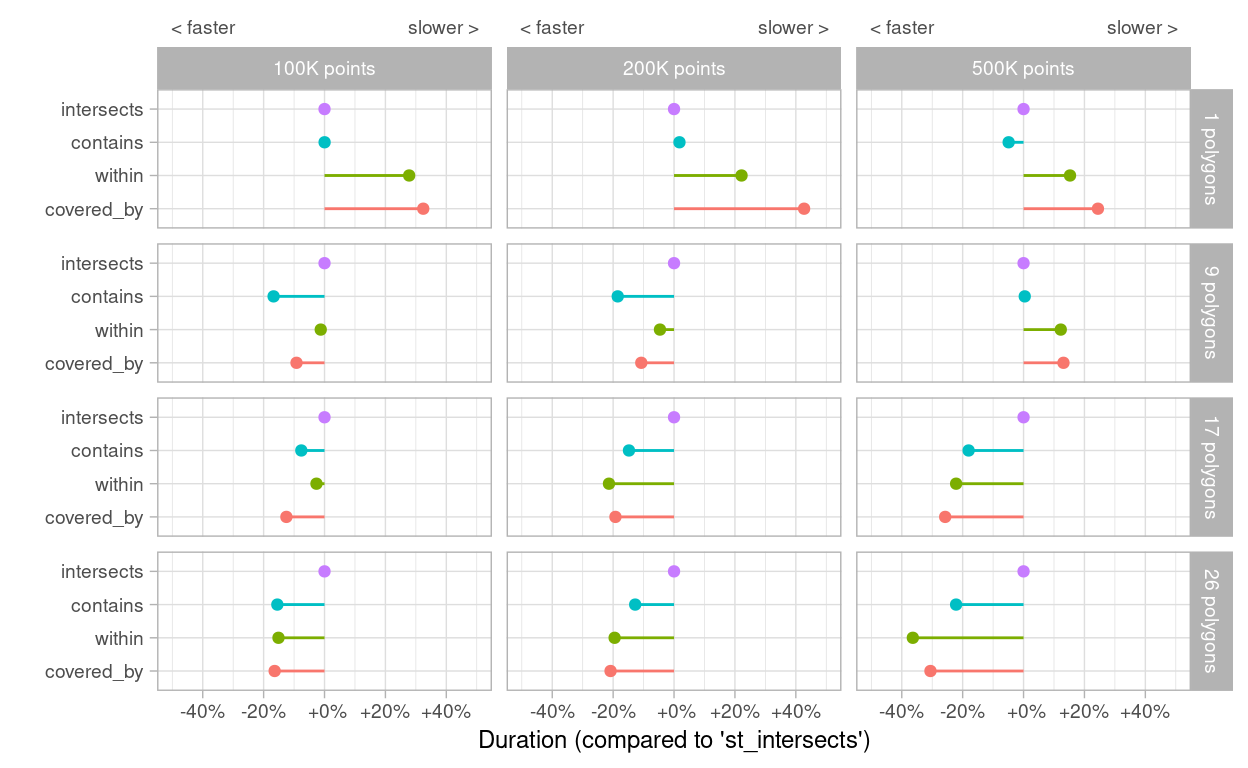
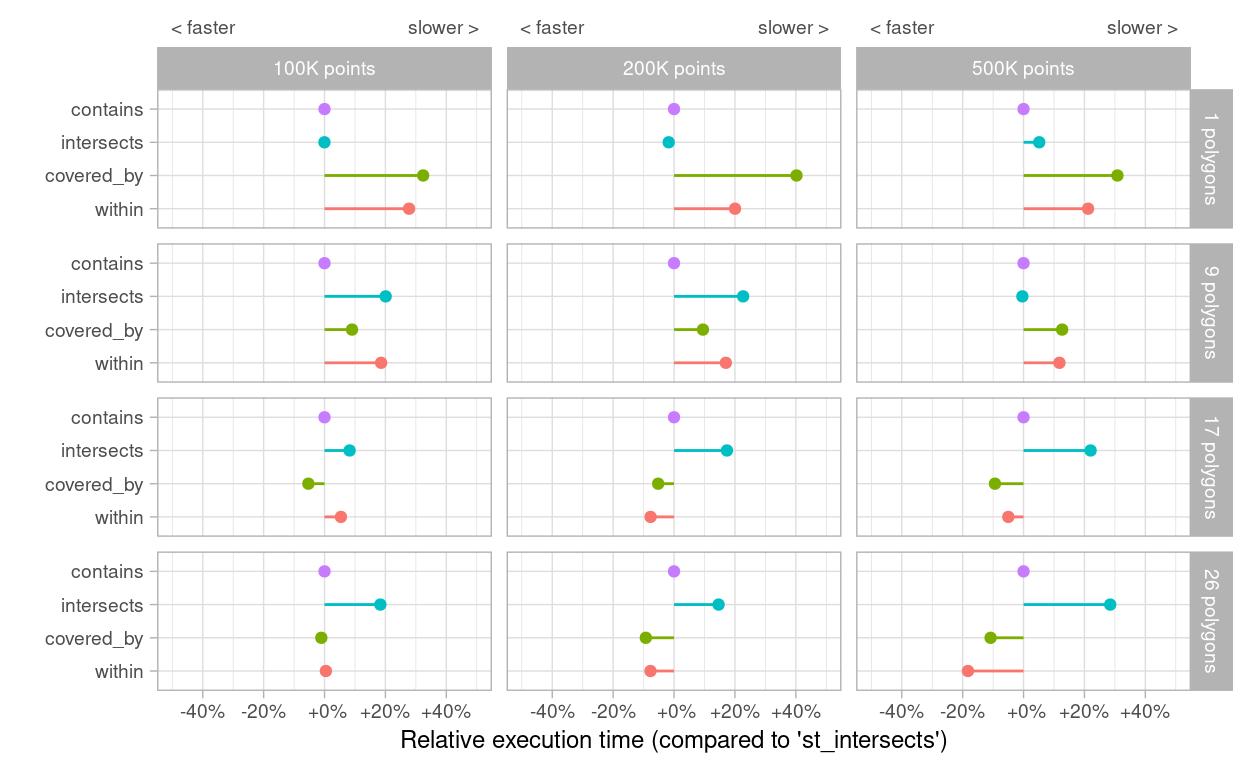
updates

diff --git a/docs/posts/2021-09-11-benchmarking_binary_predicates/index.html b/docs/posts/2021-09-11-benchmarking_binary_predicates/index.html
@@ -94,8 +94,8 @@ code span.wa { color: #5e5e5e; font-style: italic; } /* Warning */
 <link rel="canonical" href="https://nils.ratnaweera.net/posts/2021-09-11-benchmarking_binary_predicates/"/>
 
 <!--  https://schema.org/Article -->
-<meta property="article:published" itemprop="datePublished" content="2021-09-16"/>
-<meta property="article:created" itemprop="dateCreated" content="2021-09-16"/>
+<meta property="article:published" itemprop="datePublished" content="2021-09-17"/>
+<meta property="article:created" itemprop="dateCreated" content="2021-09-17"/>
 <meta name="article:author" content="Nils Ratnaweera"/>
 
 <!--  https://developers.facebook.com/docs/sharing/webmasters#markup -->
@@ -118,19 +118,19 @@ code span.wa { color: #5e5e5e; font-style: italic; } /* Warning */
 <!--  https://scholar.google.com/intl/en/scholar/inclusion.html#indexing -->
 <meta name="citation_title" content="To talk of many things: Benchmarking binary predicates"/>
 <meta name="citation_fulltext_html_url" content="https://nils.ratnaweera.net/posts/2021-09-11-benchmarking_binary_predicates/"/>
-<meta name="citation_online_date" content="2021/09/16"/>
-<meta name="citation_publication_date" content="2021/09/16"/>
+<meta name="citation_online_date" content="2021/09/17"/>
+<meta name="citation_publication_date" content="2021/09/17"/>
 <meta name="citation_author" content="Nils Ratnaweera"/>
 <!--/radix_placeholder_meta_tags-->
   <!--radix_placeholder_rmarkdown_metadata-->
 
 <script type="text/json" id="radix-rmarkdown-metadata">
-{"type":"list","attributes":{"names":{"type":"character","attributes":{},"value":["title","author","description","categories","tags","preview","twitter","output","date","citation_url","canonical_url"]}},"value":[{"type":"character","attributes":{},"value":["Benchmarking binary predicates"]},{"type":"list","attributes":{},"value":[{"type":"list","attributes":{"names":{"type":"character","attributes":{},"value":["name"]}},"value":[{"type":"character","attributes":{},"value":["Nils Ratnaweera"]}]}]},{"type":"character","attributes":{},"value":["Comparing the performance of different methods to do a \"point in polygon operation\" with sf."]},{"type":"character","attributes":{},"value":["R","geodata"]},{"type":"character","attributes":{},"value":["R","point-in-polygon","sf","swisstopo","Sri Lanka"]},{"type":"character","attributes":{},"value":["preview.jpg"]},{"type":"list","attributes":{"names":{"type":"character","attributes":{},"value":["site","author"]}},"value":[{"type":"character","attributes":{},"value":["@NRatnaweera"]},{"type":"character","attributes":{},"value":["@NRatnaweera"]}]},{"type":"list","attributes":{"names":{"type":"character","attributes":{},"value":["distill::distill_article"]}},"value":[{"type":"list","attributes":{"names":{"type":"character","attributes":{},"value":["self_contained","toc"]}},"value":[{"type":"logical","attributes":{},"value":[false]},{"type":"logical","attributes":{},"value":[true]}]}]},{"type":"character","attributes":{},"value":["09-16-2021"]},{"type":"character","attributes":{},"value":["https://nils.ratnaweera.net/posts/2021-09-11-benchmarking_binary_predicates/"]},{"type":"character","attributes":{},"value":["https://nils.ratnaweera.net/posts/2021-09-11-benchmarking_binary_predicates/"]}]}
+{"type":"list","attributes":{"names":{"type":"character","attributes":{},"value":["title","author","description","categories","tags","preview","twitter","output","date","citation_url","canonical_url"]}},"value":[{"type":"character","attributes":{},"value":["Benchmarking binary predicates"]},{"type":"list","attributes":{},"value":[{"type":"list","attributes":{"names":{"type":"character","attributes":{},"value":["name"]}},"value":[{"type":"character","attributes":{},"value":["Nils Ratnaweera"]}]}]},{"type":"character","attributes":{},"value":["Comparing the performance of different methods to do a \"point in polygon operation\" with sf."]},{"type":"character","attributes":{},"value":["R","geodata"]},{"type":"character","attributes":{},"value":["R","point-in-polygon","sf","swisstopo","Sri Lanka"]},{"type":"character","attributes":{},"value":["preview.jpg"]},{"type":"list","attributes":{"names":{"type":"character","attributes":{},"value":["site","author"]}},"value":[{"type":"character","attributes":{},"value":["@NRatnaweera"]},{"type":"character","attributes":{},"value":["@NRatnaweera"]}]},{"type":"list","attributes":{"names":{"type":"character","attributes":{},"value":["distill::distill_article"]}},"value":[{"type":"list","attributes":{"names":{"type":"character","attributes":{},"value":["self_contained","toc"]}},"value":[{"type":"logical","attributes":{},"value":[false]},{"type":"logical","attributes":{},"value":[true]}]}]},{"type":"character","attributes":{},"value":["09-17-2021"]},{"type":"character","attributes":{},"value":["https://nils.ratnaweera.net/posts/2021-09-11-benchmarking_binary_predicates/"]},{"type":"character","attributes":{},"value":["https://nils.ratnaweera.net/posts/2021-09-11-benchmarking_binary_predicates/"]}]}
 </script>
 <!--/radix_placeholder_rmarkdown_metadata-->
   
   <script type="text/json" id="radix-resource-manifest">
-  {"type":"character","attributes":{},"value":["benchmarking_binary_predicates_files/anchor-4.2.2/anchor.min.js","benchmarking_binary_predicates_files/bowser-1.9.3/bowser.min.js","benchmarking_binary_predicates_files/distill-2.2.21/template.v2.js","benchmarking_binary_predicates_files/figure-html/unnamed-chunk-1-1.png","benchmarking_binary_predicates_files/figure-html/unnamed-chunk-2-1.png","benchmarking_binary_predicates_files/figure-html/unnamed-chunk-3-1.png","benchmarking_binary_predicates_files/figure-html/unnamed-chunk-4-1.png","benchmarking_binary_predicates_files/figure-html/unnamed-chunk-5-1.png","benchmarking_binary_predicates_files/figure-html/unnamed-chunk-7-1.png","benchmarking_binary_predicates_files/figure-html5/unnamed-chunk-11-1.png","benchmarking_binary_predicates_files/figure-html5/unnamed-chunk-12-1.png","benchmarking_binary_predicates_files/figure-html5/unnamed-chunk-4-1.png","benchmarking_binary_predicates_files/figure-html5/unnamed-chunk-5-1.png","benchmarking_binary_predicates_files/figure-html5/unnamed-chunk-6-1.png","benchmarking_binary_predicates_files/figure-html5/unnamed-chunk-7-1.png","benchmarking_binary_predicates_files/figure-html5/unnamed-chunk-8-1.png","benchmarking_binary_predicates_files/figure-html5/unnamed-chunk-9-1.png","benchmarking_binary_predicates_files/header-attrs-2.10/header-attrs.js","benchmarking_binary_predicates_files/header-attrs-2.11/header-attrs.js","benchmarking_binary_predicates_files/jquery-1.11.3/jquery.min.js","benchmarking_binary_predicates_files/jquery-3.6.0/jquery-3.6.0.js","benchmarking_binary_predicates_files/jquery-3.6.0/jquery-3.6.0.min.js","benchmarking_binary_predicates_files/jquery-3.6.0/jquery-3.6.0.min.map","benchmarking_binary_predicates_files/popper-2.6.0/popper.min.js","benchmarking_binary_predicates_files/tippy-6.2.7/tippy-bundle.umd.min.js","benchmarking_binary_predicates_files/tippy-6.2.7/tippy-light-border.css","benchmarking_binary_predicates_files/tippy-6.2.7/tippy.css","benchmarking_binary_predicates_files/tippy-6.2.7/tippy.umd.min.js","benchmarking_binary_predicates_files/webcomponents-2.0.0/webcomponents.js","data-git-lfs/LK.zip","data-git-lfs/lka_adm_slsd_20200305_shp.zip","mbm2.Rda","preview.jpg"]}
+  {"type":"character","attributes":{},"value":["benchmarking_binary_predicates_files/anchor-4.2.2/anchor.min.js","benchmarking_binary_predicates_files/bowser-1.9.3/bowser.min.js","benchmarking_binary_predicates_files/distill-2.2.21/template.v2.js","benchmarking_binary_predicates_files/figure-html/unnamed-chunk-1-1.png","benchmarking_binary_predicates_files/figure-html/unnamed-chunk-2-1.png","benchmarking_binary_predicates_files/figure-html/unnamed-chunk-3-1.png","benchmarking_binary_predicates_files/figure-html/unnamed-chunk-4-1.png","benchmarking_binary_predicates_files/figure-html/unnamed-chunk-5-1.png","benchmarking_binary_predicates_files/figure-html/unnamed-chunk-7-1.png","benchmarking_binary_predicates_files/figure-html5/unnamed-chunk-10-1.png","benchmarking_binary_predicates_files/figure-html5/unnamed-chunk-11-1.png","benchmarking_binary_predicates_files/figure-html5/unnamed-chunk-12-1.png","benchmarking_binary_predicates_files/figure-html5/unnamed-chunk-14-1.png","benchmarking_binary_predicates_files/figure-html5/unnamed-chunk-15-1.png","benchmarking_binary_predicates_files/figure-html5/unnamed-chunk-4-1.png","benchmarking_binary_predicates_files/figure-html5/unnamed-chunk-5-1.png","benchmarking_binary_predicates_files/figure-html5/unnamed-chunk-6-1.png","benchmarking_binary_predicates_files/figure-html5/unnamed-chunk-7-1.png","benchmarking_binary_predicates_files/figure-html5/unnamed-chunk-8-1.png","benchmarking_binary_predicates_files/figure-html5/unnamed-chunk-9-1.png","benchmarking_binary_predicates_files/header-attrs-2.10/header-attrs.js","benchmarking_binary_predicates_files/header-attrs-2.11/header-attrs.js","benchmarking_binary_predicates_files/jquery-1.11.3/jquery.min.js","benchmarking_binary_predicates_files/jquery-3.6.0/jquery-3.6.0.js","benchmarking_binary_predicates_files/jquery-3.6.0/jquery-3.6.0.min.js","benchmarking_binary_predicates_files/jquery-3.6.0/jquery-3.6.0.min.map","benchmarking_binary_predicates_files/popper-2.6.0/popper.min.js","benchmarking_binary_predicates_files/tippy-6.2.7/tippy-bundle.umd.min.js","benchmarking_binary_predicates_files/tippy-6.2.7/tippy-light-border.css","benchmarking_binary_predicates_files/tippy-6.2.7/tippy.css","benchmarking_binary_predicates_files/tippy-6.2.7/tippy.umd.min.js","benchmarking_binary_predicates_files/webcomponents-2.0.0/webcomponents.js","data-git-lfs/LK.zip","data-git-lfs/lka_adm_slsd_20200305_shp.zip","mbm.Rda","mbm2.Rda","preview.jpg"]}
   </script>
   <!--radix_placeholder_navigation_in_header-->
 <meta name="distill:offset" content="../.."/>
@@ -2353,7 +2353,7 @@ gtag('config', 'G-V2ZRK780J8');
 <!--radix_placeholder_front_matter-->
 
 <script id="distill-front-matter" type="text/json">
-{"title":"Benchmarking binary predicates","description":"Comparing the performance of different methods to do a \"point in polygon operation\" with sf.","authors":[{"author":"Nils Ratnaweera","authorURL":"#","affiliation":"&nbsp;","affiliationURL":"#","orcidID":""}],"publishedDate":"2021-09-16T00:00:00.000+02:00","citationText":"Ratnaweera, 2021"}
+{"title":"Benchmarking binary predicates","description":"Comparing the performance of different methods to do a \"point in polygon operation\" with sf.","authors":[{"author":"Nils Ratnaweera","authorURL":"#","affiliation":"&nbsp;","affiliationURL":"#","orcidID":""}],"publishedDate":"2021-09-17T00:00:00.000+02:00","citationText":"Ratnaweera, 2021"}
 </script>
 
 <!--/radix_placeholder_front_matter-->
@@ -2391,7 +2391,7 @@ gtag('config', 'G-V2ZRK780J8');
   
   Nils Ratnaweera
   
-<br/>09-16-2021
+<br/>09-17-2021
 </div>
 
 <div class="d-article">
@@ -2409,6 +2409,9 @@ show code for: loading libraries
 <span class='kw'><a href='https://rdrr.io/r/base/library.html'>library</a></span><span class='op'>(</span><span class='va'><a href='https://readr.tidyverse.org'>readr</a></span><span class='op'>)</span>
 <span class='kw'><a href='https://rdrr.io/r/base/library.html'>library</a></span><span class='op'>(</span><span class='va'><a href='https://ggplot2.tidyverse.org'>ggplot2</a></span><span class='op'>)</span>
 <span class='kw'><a href='https://rdrr.io/r/base/library.html'>library</a></span><span class='op'>(</span><span class='va'><a href='https://lubridate.tidyverse.org'>lubridate</a></span><span class='op'>)</span>
+<span class='kw'><a href='https://rdrr.io/r/base/library.html'>library</a></span><span class='op'>(</span><span class='va'><a href='https://github.com/joshuaulrich/microbenchmark/'>microbenchmark</a></span><span class='op'>)</span>
+<span class='kw'><a href='https://rdrr.io/r/base/library.html'>library</a></span><span class='op'>(</span><span class='va'><a href='https://wilkelab.org/ggridges/'>ggridges</a></span><span class='op'>)</span>
+<span class='kw'><a href='https://rdrr.io/r/base/library.html'>library</a></span><span class='op'>(</span><span class='va'><a href='https://forcats.tidyverse.org'>forcats</a></span><span class='op'>)</span>
 </code></pre>
 </div>
 </details>
@@ -2467,7 +2470,11 @@ show code for: preparing geonames dataset
 <span class='co'># modification date : date of last modification in yyyy-MM-dd format</span>
 
 
-<span class='va'>colnames</span> <span class='op'>&lt;-</span> <span class='fu'><a href='https://rdrr.io/r/base/c.html'>c</a></span><span class='op'>(</span><span class='st'>"geonameid"</span>, <span class='st'>"name"</span>,  <span class='st'>"asciiname"</span>,  <span class='st'>"alternatenames"</span>, <span class='st'>"latitude"</span>,  <span class='st'>"longitude"</span>,  <span class='st'>"feature_class"</span>,  <span class='st'>"feature_code"</span>, <span class='st'>"country_code"</span>,  <span class='st'>"cc2"</span>,  <span class='st'>"admin1_code"</span>,  <span class='st'>"admin2_code"</span>,  <span class='st'>"admin3_code"</span>,  <span class='st'>"admin4_code"</span>,  <span class='st'>"population"</span>, <span class='st'>"elevation"</span>, <span class='st'>"dem"</span>, <span class='st'>"timezone"</span>,  <span class='st'>"modification_date"</span><span class='op'>)</span>
+<span class='va'>colnames</span> <span class='op'>&lt;-</span> <span class='fu'><a href='https://rdrr.io/r/base/c.html'>c</a></span><span class='op'>(</span><span class='st'>"geonameid"</span>, <span class='st'>"name"</span>,  <span class='st'>"asciiname"</span>,  <span class='st'>"alternatenames"</span>, <span class='st'>"latitude"</span>,  
+              <span class='st'>"longitude"</span>,  <span class='st'>"feature_class"</span>,  <span class='st'>"feature_code"</span>, <span class='st'>"country_code"</span>,  
+              <span class='st'>"cc2"</span>,  <span class='st'>"admin1_code"</span>,  <span class='st'>"admin2_code"</span>,  <span class='st'>"admin3_code"</span>,  
+              <span class='st'>"admin4_code"</span>,  <span class='st'>"population"</span>, <span class='st'>"elevation"</span>, <span class='st'>"dem"</span>, <span class='st'>"timezone"</span>,  
+              <span class='st'>"modification_date"</span><span class='op'>)</span>
 
 
 <span class='va'>geonames_dir</span> <span class='op'>&lt;-</span> <span class='fu'><a href='https://rdrr.io/r/base/file.path.html'>file.path</a></span><span class='op'>(</span><span class='va'>tmp</span>, <span class='st'>"geonames"</span><span class='op'>)</span>
@@ -2521,14 +2528,22 @@ show code for: subsetting and creating a map
 <p>Next, I will do the same operation with the other functions and also check the output number of rows to see if they are similar (they might be slightly off if we have points exactly <em>on</em> the polygon boundary) or even identical.</p>
 <div class="layout-chunk" data-layout="l-body">
 <div class="sourceCode">
-<pre class="sourceCode r"><code class="sourceCode r"><span class='va'>points_filter</span><span class='op'>[[</span><span class='st'>"contains"</span><span class='op'>]</span><span class='op'>]</span> <span class='op'>&lt;-</span> <span class='va'>geonames</span><span class='op'>[</span><span class='fu'><a href='https://r-spatial.github.io/sf/reference/geos_binary_pred.html'>st_contains</a></span><span class='op'>(</span><span class='va'>kandy</span>,<span class='va'>geonames</span>,sparse <span class='op'>=</span> <span class='cn'>FALSE</span><span class='op'>)</span><span class='op'>[</span><span class='fl'>1</span>,<span class='op'>]</span>,<span class='op'>]</span>
-<span class='va'>points_filter</span><span class='op'>[[</span><span class='st'>"intersects"</span><span class='op'>]</span><span class='op'>]</span> <span class='op'>&lt;-</span> <span class='va'>geonames</span><span class='op'>[</span><span class='fu'><a href='https://r-spatial.github.io/sf/reference/geos_binary_pred.html'>st_intersects</a></span><span class='op'>(</span><span class='va'>geonames</span>,<span class='va'>kandy</span>,sparse <span class='op'>=</span> <span class='cn'>FALSE</span><span class='op'>)</span><span class='op'>[</span>,<span class='fl'>1</span><span class='op'>]</span>,<span class='op'>]</span>
-<span class='va'>points_filter</span><span class='op'>[[</span><span class='st'>"covered_by"</span><span class='op'>]</span><span class='op'>]</span> <span class='op'>&lt;-</span> <span class='va'>geonames</span><span class='op'>[</span><span class='fu'><a href='https://r-spatial.github.io/sf/reference/geos_binary_pred.html'>st_covered_by</a></span><span class='op'>(</span><span class='va'>geonames</span>,<span class='va'>kandy</span>,sparse <span class='op'>=</span> <span class='cn'>FALSE</span><span class='op'>)</span><span class='op'>[</span>,<span class='fl'>1</span><span class='op'>]</span>,<span class='op'>]</span>
+<pre class="sourceCode r"><code class="sourceCode r"><span class='va'>points_filter</span><span class='op'>[[</span><span class='st'>"contains"</span><span class='op'>]</span><span class='op'>]</span> <span class='op'>&lt;-</span> <span class='va'>geonames</span><span class='op'>[</span><span class='fu'><a href='https://r-spatial.github.io/sf/reference/geos_binary_pred.html'>st_contains</a></span><span class='op'>(</span><span class='va'>kandy</span>,
+                                                    <span class='va'>geonames</span>,
+                                                    sparse <span class='op'>=</span> <span class='cn'>FALSE</span><span class='op'>)</span><span class='op'>[</span><span class='fl'>1</span>,<span class='op'>]</span>,<span class='op'>]</span>
+<span class='va'>points_filter</span><span class='op'>[[</span><span class='st'>"intersects"</span><span class='op'>]</span><span class='op'>]</span> <span class='op'>&lt;-</span> <span class='va'>geonames</span><span class='op'>[</span><span class='fu'><a href='https://r-spatial.github.io/sf/reference/geos_binary_pred.html'>st_intersects</a></span><span class='op'>(</span><span class='va'>geonames</span>,
+                                                        <span class='va'>kandy</span>,
+                                                        sparse <span class='op'>=</span> <span class='cn'>FALSE</span><span class='op'>)</span><span class='op'>[</span>,<span class='fl'>1</span><span class='op'>]</span>,<span class='op'>]</span>
+<span class='va'>points_filter</span><span class='op'>[[</span><span class='st'>"covered_by"</span><span class='op'>]</span><span class='op'>]</span> <span class='op'>&lt;-</span> <span class='va'>geonames</span><span class='op'>[</span><span class='fu'><a href='https://r-spatial.github.io/sf/reference/geos_binary_pred.html'>st_covered_by</a></span><span class='op'>(</span><span class='va'>geonames</span>,
+                                                        <span class='va'>kandy</span>,
+                                                        sparse <span class='op'>=</span> <span class='cn'>FALSE</span><span class='op'>)</span><span class='op'>[</span>,<span class='fl'>1</span><span class='op'>]</span>,<span class='op'>]</span>
 
 <span class='fu'><a href='https://tibble.tidyverse.org/reference/tibble.html'>tibble</a></span><span class='op'>(</span>
   function_name <span class='op'>=</span> <span class='fu'><a href='https://rdrr.io/r/base/names.html'>names</a></span><span class='op'>(</span><span class='va'>points_filter</span><span class='op'>)</span>,
   nrow <span class='op'>=</span> <span class='fu'><a href='https://rdrr.io/r/base/lapply.html'>sapply</a></span><span class='op'>(</span><span class='va'>points_filter</span>, <span class='va'>nrow</span><span class='op'>)</span>,
-  identical_to_st_within <span class='op'>=</span> <span class='fu'><a href='https://rdrr.io/r/base/lapply.html'>sapply</a></span><span class='op'>(</span><span class='va'>points_filter</span>, <span class='kw'>function</span><span class='op'>(</span><span class='va'>x</span><span class='op'>)</span><span class='op'>{</span><span class='fu'><a href='https://rdrr.io/r/base/identical.html'>identical</a></span><span class='op'>(</span><span class='va'>points_filter</span><span class='op'>[[</span><span class='st'>"within"</span><span class='op'>]</span><span class='op'>]</span>, <span class='va'>x</span><span class='op'>)</span><span class='op'>}</span><span class='op'>)</span>
+  identical_to_st_within <span class='op'>=</span> <span class='fu'><a href='https://rdrr.io/r/base/lapply.html'>sapply</a></span><span class='op'>(</span><span class='va'>points_filter</span>, <span class='kw'>function</span><span class='op'>(</span><span class='va'>x</span><span class='op'>)</span><span class='op'>{</span>
+    <span class='fu'><a href='https://rdrr.io/r/base/identical.html'>identical</a></span><span class='op'>(</span><span class='va'>points_filter</span><span class='op'>[[</span><span class='st'>"within"</span><span class='op'>]</span><span class='op'>]</span>, <span class='va'>x</span><span class='op'>)</span>
+    <span class='op'>}</span><span class='op'>)</span>
 <span class='op'>)</span> <span class='op'>%&gt;%</span>
   <span class='fu'>knitr</span><span class='fu'>::</span><span class='fu'><a href='https://rdrr.io/pkg/knitr/man/kable.html'>kable</a></span><span class='op'>(</span>col.names <span class='op'>=</span> <span class='fu'>stringr</span><span class='fu'>::</span><span class='fu'><a href='https://stringr.tidyverse.org/reference/str_replace.html'>str_replace_all</a></span><span class='op'>(</span><span class='fu'><a href='https://rdrr.io/r/base/colnames.html'>colnames</a></span><span class='op'>(</span><span class='va'>.</span><span class='op'>)</span>,<span class='st'>"_"</span>, <span class='st'>" "</span><span class='op'>)</span><span class='op'>)</span>
 </code></pre>
@@ -2572,19 +2587,30 @@ show code for: subsetting and creating a map
 show code for: Benchmarking the functions
 </summary>
 <div class="sourceCode">
-<pre class="sourceCode r"><code class="sourceCode r"><span class='kw'><a href='https://rdrr.io/r/base/library.html'>library</a></span><span class='op'>(</span><span class='va'><a href='https://github.com/joshuaulrich/microbenchmark/'>microbenchmark</a></span><span class='op'>)</span>
-<span class='kw'><a href='https://rdrr.io/r/base/library.html'>library</a></span><span class='op'>(</span><span class='va'><a href='https://wilkelab.org/ggridges/'>ggridges</a></span><span class='op'>)</span>
-<span class='kw'><a href='https://rdrr.io/r/base/library.html'>library</a></span><span class='op'>(</span><span class='va'><a href='https://forcats.tidyverse.org'>forcats</a></span><span class='op'>)</span>
-
-<span class='va'>mbm</span>  <span class='op'>&lt;-</span> <span class='fu'><a href='https://rdrr.io/pkg/microbenchmark/man/microbenchmark.html'>microbenchmark</a></span><span class='op'>(</span>
+<pre class="sourceCode r"><code class="sourceCode r"><span class='va'>mbm</span>  <span class='op'>&lt;-</span> <span class='fu'><a href='https://rdrr.io/pkg/microbenchmark/man/microbenchmark.html'>microbenchmark</a></span><span class='op'>(</span>
   intersects <span class='op'>=</span> <span class='fu'><a href='https://r-spatial.github.io/sf/reference/geos_binary_pred.html'>st_intersects</a></span><span class='op'>(</span><span class='va'>kandy</span>,<span class='va'>geonames</span><span class='op'>)</span>,
   within <span class='op'>=</span> <span class='fu'><a href='https://r-spatial.github.io/sf/reference/geos_binary_pred.html'>st_within</a></span><span class='op'>(</span><span class='va'>geonames</span>,<span class='va'>kandy</span><span class='op'>)</span>,
   contains <span class='op'>=</span> <span class='fu'><a href='https://r-spatial.github.io/sf/reference/geos_binary_pred.html'>st_contains</a></span><span class='op'>(</span><span class='va'>kandy</span>,<span class='va'>geonames</span><span class='op'>)</span>,
   covered_by <span class='op'>=</span> <span class='fu'><a href='https://r-spatial.github.io/sf/reference/geos_binary_pred.html'>st_covered_by</a></span><span class='op'>(</span><span class='va'>geonames</span>,<span class='va'>kandy</span><span class='op'>)</span>,
   times <span class='op'>=</span> <span class='fl'>50</span>
 <span class='op'>)</span>
+</code></pre>
+</div>
+</details>
+</div>
+<div class="layout-chunk" data-layout="l-body">
 
-<span class='va'>mbm2df</span> <span class='op'>&lt;-</span> <span class='kw'>function</span><span class='op'>(</span><span class='va'>mbm_obj</span><span class='op'>)</span><span class='op'>{</span>
+</div>
+<div class="layout-chunk" data-layout="l-body">
+
+</div>
+<div class="layout-chunk" data-layout="l-body">
+<details>
+<summary>
+show code for: visualizing the result
+</summary>
+<div class="sourceCode">
+<pre class="sourceCode r"><code class="sourceCode r"><span class='va'>mbm2df</span> <span class='op'>&lt;-</span> <span class='kw'>function</span><span class='op'>(</span><span class='va'>mbm_obj</span><span class='op'>)</span><span class='op'>{</span>
   <span class='va'>df</span> <span class='op'>&lt;-</span> <span class='fu'><a href='https://rdrr.io/r/base/as.data.frame.html'>as.data.frame</a></span><span class='op'>(</span><span class='va'>mbm_obj</span><span class='op'>)</span>
   <span class='va'>df</span><span class='op'>$</span><span class='va'>time</span> <span class='op'>&lt;-</span> <span class='fu'><a href='http://lubridate.tidyverse.org/reference/duration.html'>dnanoseconds</a></span><span class='op'>(</span><span class='va'>df</span><span class='op'>$</span><span class='va'>time</span><span class='op'>)</span>
   <span class='va'>df</span>
@@ -2600,7 +2626,8 @@ show code for: Benchmarking the functions
   <span class='fu'><a href='https://ggplot2.tidyverse.org/reference/ggplot.html'>ggplot</a></span><span class='op'>(</span><span class='fu'><a href='https://ggplot2.tidyverse.org/reference/aes.html'>aes</a></span><span class='op'>(</span><span class='va'>time</span>,<span class='va'>expr</span>,fill <span class='op'>=</span> <span class='va'>..x..</span><span class='op'>)</span><span class='op'>)</span> <span class='op'>+</span>
   <span class='fu'><a href='https://wilkelab.org/ggridges/reference/geom_ridgeline_gradient.html'>geom_density_ridges_gradient</a></span><span class='op'>(</span>scale <span class='op'>=</span> <span class='fl'>2</span>, rel_min_height <span class='op'>=</span> <span class='fl'>0.01</span><span class='op'>)</span> <span class='op'>+</span>
   <span class='fu'><a href='https://ggplot2.tidyverse.org/reference/scale_viridis.html'>scale_fill_viridis_c</a></span><span class='op'>(</span>option <span class='op'>=</span> <span class='st'>"C"</span><span class='op'>)</span>  <span class='op'>+</span>
-  <span class='fu'><a href='https://ggplot2.tidyverse.org/reference/scale_date.html'>scale_x_time</a></span><span class='op'>(</span>name <span class='op'>=</span> <span class='st'>"Duration (in seconds)"</span>,labels <span class='op'>=</span> <span class='fu'>scales</span><span class='fu'>::</span><span class='fu'><a href='https://scales.r-lib.org/reference/label_date.html'>time_format</a></span><span class='op'>(</span>format <span class='op'>=</span> <span class='st'>"%OS3"</span><span class='op'>)</span><span class='op'>)</span> <span class='op'>+</span>
+  <span class='fu'><a href='https://ggplot2.tidyverse.org/reference/scale_date.html'>scale_x_time</a></span><span class='op'>(</span>name <span class='op'>=</span> <span class='st'>"Duration (in seconds)"</span>,
+               labels <span class='op'>=</span> <span class='fu'>scales</span><span class='fu'>::</span><span class='fu'><a href='https://scales.r-lib.org/reference/label_date.html'>time_format</a></span><span class='op'>(</span>format <span class='op'>=</span> <span class='st'>"%OS3"</span><span class='op'>)</span><span class='op'>)</span> <span class='op'>+</span>
   <span class='fu'><a href='https://ggplot2.tidyverse.org/reference/labs.html'>labs</a></span><span class='op'>(</span>y <span class='op'>=</span> <span class='st'>"Function"</span><span class='op'>)</span> <span class='op'>+</span>
   <span class='fu'><a href='https://ggplot2.tidyverse.org/reference/ggtheme.html'>theme_minimal</a></span><span class='op'>(</span><span class='op'>)</span> <span class='op'>+</span>
   <span class='fu'><a href='https://ggplot2.tidyverse.org/reference/theme.html'>theme</a></span><span class='op'>(</span>legend.position<span class='op'>=</span><span class='st'>"none"</span><span class='op'>)</span>
@@ -2609,7 +2636,7 @@ show code for: Benchmarking the functions
 </code></pre>
 </div>
 </details>
-<p><img src="benchmarking_binary_predicates_files/figure-html5/unnamed-chunk-7-1.png" width="624" /></p>
+<p><img src="benchmarking_binary_predicates_files/figure-html5/unnamed-chunk-10-1.png" width="624" /></p>
 </div>
 <p>This benchmark shows that <code>st_contains</code> and <code>st_intersects</code> executes faster than <code>st_covered_by</code> and <code>st_within</code>. The next question is: How do the functions scale and perform under different scenarios? I’ll test this by generating additional points to subset, and also by using more provinces than just Kandy. And since I’m more interested in <em>relative</em> rather than <em>absolute</em> execution times, I will calculate the median duration per function and scenario and rescale the values by deviding them with the duration of <code>st_intersects</code>.</p>
 <div class="layout-chunk" data-layout="l-body">
@@ -2629,7 +2656,7 @@ show code for: Benchmarking scalability
     
     <span class='va'>polygons</span> <span class='op'>&lt;-</span> <span class='fu'><a href='https://dplyr.tidyverse.org/reference/sample_n.html'>sample_n</a></span><span class='op'>(</span><span class='va'>sl_boundary_l2</span>, <span class='va'>n_poly</span><span class='op'>)</span>
     
-    <span class='va'>mbm_poly</span> <span class='op'>&lt;-</span> <span class='fu'>microbenchmark</span><span class='op'>(</span>
+    <span class='va'>mbm_poly</span> <span class='op'>&lt;-</span> <span class='fu'><a href='https://rdrr.io/pkg/microbenchmark/man/microbenchmark.html'>microbenchmark</a></span><span class='op'>(</span>
       intersects <span class='op'>=</span> <span class='fu'><a href='https://r-spatial.github.io/sf/reference/geos_binary_pred.html'>st_intersects</a></span><span class='op'>(</span><span class='va'>polygons</span>,<span class='va'>points</span><span class='op'>)</span>,
       within <span class='op'>=</span> <span class='fu'><a href='https://r-spatial.github.io/sf/reference/geos_binary_pred.html'>st_within</a></span><span class='op'>(</span><span class='va'>points</span>,<span class='va'>polygons</span><span class='op'>)</span>,
       contains <span class='op'>=</span> <span class='fu'><a href='https://r-spatial.github.io/sf/reference/geos_binary_pred.html'>st_contains</a></span><span class='op'>(</span><span class='va'>polygons</span>,<span class='va'>points</span><span class='op'>)</span>,
@@ -2664,33 +2691,40 @@ show code for: Visualizing results
 
 <span class='va'>mylabels</span> <span class='op'>&lt;-</span> <span class='kw'>function</span><span class='op'>(</span><span class='va'>x</span><span class='op'>)</span><span class='op'>{</span><span class='fu'><a href='https://rdrr.io/r/base/sprintf.html'>sprintf</a></span><span class='op'>(</span><span class='st'>"%+3.f%%"</span>, <span class='va'>x</span><span class='op'>*</span><span class='fl'>100</span><span class='op'>)</span><span class='op'>}</span>
 
-<span class='kw'><a href='https://rdrr.io/r/base/library.html'>library</a></span><span class='op'>(</span><span class='va'><a href='https://forcats.tidyverse.org'>forcats</a></span><span class='op'>)</span>
 <span class='va'>mbm2_df</span> <span class='op'>%&gt;%</span>
   <span class='fu'><a href='https://dplyr.tidyverse.org/reference/group_by.html'>group_by</a></span><span class='op'>(</span><span class='va'>expr</span>, <span class='va'>n_poly</span>, <span class='va'>n_points</span><span class='op'>)</span> <span class='op'>%&gt;%</span>
   <span class='fu'><a href='https://dplyr.tidyverse.org/reference/summarise.html'>summarise</a></span><span class='op'>(</span>median <span class='op'>=</span> <span class='fu'><a href='https://rdrr.io/r/stats/median.html'>median</a></span><span class='op'>(</span><span class='va'>time</span><span class='op'>)</span><span class='op'>)</span> <span class='op'>%&gt;%</span> 
   <span class='fu'><a href='https://dplyr.tidyverse.org/reference/group_by.html'>ungroup</a></span><span class='op'>(</span><span class='op'>)</span> <span class='op'>%&gt;%</span>
   <span class='fu'><a href='https://dplyr.tidyverse.org/reference/group_by.html'>group_by</a></span><span class='op'>(</span><span class='va'>n_poly</span>,<span class='va'>n_points</span><span class='op'>)</span> <span class='op'>%&gt;%</span>
   <span class='fu'><a href='https://dplyr.tidyverse.org/reference/mutate.html'>mutate</a></span><span class='op'>(</span>
-    perc <span class='op'>=</span> <span class='va'>median</span><span class='op'>/</span><span class='va'>median</span><span class='op'>[</span><span class='va'>expr</span> <span class='op'>==</span> <span class='st'>"intersects"</span><span class='op'>]</span><span class='op'>-</span><span class='fl'>1</span>,
-    expr <span class='op'>=</span> <span class='fu'><a href='https://forcats.tidyverse.org/reference/fct_relevel.html'>fct_relevel</a></span><span class='op'>(</span><span class='va'>expr</span>, <span class='st'>"covered_by"</span>, <span class='st'>"within"</span>, <span class='st'>"contains"</span>,<span class='st'>"intersects"</span><span class='op'>)</span>
+    perc <span class='op'>=</span> <span class='va'>median</span><span class='op'>/</span><span class='va'>median</span><span class='op'>[</span><span class='va'>expr</span> <span class='op'>==</span> <span class='st'>"contains"</span><span class='op'>]</span><span class='op'>-</span><span class='fl'>1</span>,
+    expr <span class='op'>=</span> <span class='fu'><a href='https://forcats.tidyverse.org/reference/fct_relevel.html'>fct_relevel</a></span><span class='op'>(</span><span class='va'>expr</span>, <span class='st'>"within"</span>, <span class='st'>"covered_by"</span>,<span class='st'>"intersects"</span>, <span class='st'>"contains"</span><span class='op'>)</span>
     <span class='op'>)</span> <span class='op'>%&gt;%</span>
   <span class='fu'><a href='https://ggplot2.tidyverse.org/reference/ggplot.html'>ggplot</a></span><span class='op'>(</span><span class='fu'><a href='https://ggplot2.tidyverse.org/reference/aes.html'>aes</a></span><span class='op'>(</span><span class='va'>perc</span>,<span class='fu'><a href='https://rdrr.io/r/base/factor.html'>as.factor</a></span><span class='op'>(</span><span class='va'>expr</span><span class='op'>)</span>, color <span class='op'>=</span> <span class='va'>expr</span>, fill <span class='op'>=</span> <span class='va'>expr</span><span class='op'>)</span><span class='op'>)</span> <span class='op'>+</span>
   <span class='fu'><a href='https://ggplot2.tidyverse.org/reference/geom_point.html'>geom_point</a></span><span class='op'>(</span><span class='op'>)</span> <span class='op'>+</span>
   <span class='fu'><a href='https://ggplot2.tidyverse.org/reference/geom_linerange.html'>geom_linerange</a></span><span class='op'>(</span><span class='fu'><a href='https://ggplot2.tidyverse.org/reference/aes.html'>aes</a></span><span class='op'>(</span>xmin <span class='op'>=</span> <span class='fl'>0</span>, xmax <span class='op'>=</span> <span class='va'>perc</span><span class='op'>)</span><span class='op'>)</span> <span class='op'>+</span>
   <span class='co'># expand_limits(x = 0) +</span>
-  <span class='fu'><a href='https://ggplot2.tidyverse.org/reference/scale_continuous.html'>scale_x_continuous</a></span><span class='op'>(</span><span class='st'>"Duration (compared to 'st_intersects')"</span>, breaks <span class='op'>=</span> <span class='fu'><a href='https://rdrr.io/r/base/seq.html'>seq</a></span><span class='op'>(</span><span class='op'>-</span><span class='fl'>.4</span>,<span class='fl'>.4</span>,<span class='fl'>.2</span><span class='op'>)</span>, labels <span class='op'>=</span> <span class='va'>mylabels</span>,limits <span class='op'>=</span> <span class='fu'><a href='https://rdrr.io/r/base/c.html'>c</a></span><span class='op'>(</span><span class='op'>-</span><span class='fl'>.5</span>,<span class='fl'>.5</span><span class='op'>)</span>, sec.axis <span class='op'>=</span> <span class='fu'><a href='https://ggplot2.tidyverse.org/reference/sec_axis.html'>sec_axis</a></span><span class='op'>(</span><span class='op'>~</span><span class='va'>.x</span>, breaks <span class='op'>=</span> <span class='fu'><a href='https://rdrr.io/r/base/c.html'>c</a></span><span class='op'>(</span><span class='op'>-</span><span class='fl'>.4</span>,<span class='fl'>.4</span><span class='op'>)</span>,labels <span class='op'>=</span> <span class='fu'><a href='https://rdrr.io/r/base/c.html'>c</a></span><span class='op'>(</span><span class='st'>"&lt; faster"</span>,<span class='st'>"slower &gt; "</span><span class='op'>)</span><span class='op'>)</span><span class='op'>)</span> <span class='op'>+</span>
+  <span class='fu'><a href='https://ggplot2.tidyverse.org/reference/scale_continuous.html'>scale_x_continuous</a></span><span class='op'>(</span><span class='st'>"Relative execution time (compared to 'st_contains')"</span>, 
+                     breaks <span class='op'>=</span> <span class='fu'><a href='https://rdrr.io/r/base/seq.html'>seq</a></span><span class='op'>(</span><span class='op'>-</span><span class='fl'>.4</span>,<span class='fl'>.4</span>,<span class='fl'>.2</span><span class='op'>)</span>, labels <span class='op'>=</span> <span class='va'>mylabels</span>,
+                     limits <span class='op'>=</span> <span class='fu'><a href='https://rdrr.io/r/base/c.html'>c</a></span><span class='op'>(</span><span class='op'>-</span><span class='fl'>.5</span>,<span class='fl'>.5</span><span class='op'>)</span>, 
+                     sec.axis <span class='op'>=</span> <span class='fu'><a href='https://ggplot2.tidyverse.org/reference/sec_axis.html'>sec_axis</a></span><span class='op'>(</span><span class='op'>~</span><span class='va'>.x</span>, 
+                                         breaks <span class='op'>=</span> <span class='fu'><a href='https://rdrr.io/r/base/c.html'>c</a></span><span class='op'>(</span><span class='op'>-</span><span class='fl'>.4</span>,<span class='fl'>.4</span><span class='op'>)</span>, 
+                                         labels <span class='op'>=</span> <span class='fu'><a href='https://rdrr.io/r/base/c.html'>c</a></span><span class='op'>(</span><span class='st'>"&lt; faster"</span>,<span class='st'>"slower &gt; "</span><span class='op'>)</span><span class='op'>)</span><span class='op'>)</span> <span class='op'>+</span>
   <span class='fu'><a href='https://ggplot2.tidyverse.org/reference/labs.html'>labs</a></span><span class='op'>(</span>y <span class='op'>=</span> <span class='st'>""</span><span class='op'>)</span> <span class='op'>+</span>
-  <span class='fu'><a href='https://ggplot2.tidyverse.org/reference/facet_grid.html'>facet_grid</a></span><span class='op'>(</span><span class='va'>n_poly</span><span class='op'>~</span><span class='va'>n_points</span>, labeller <span class='op'>=</span> <span class='fu'><a href='https://ggplot2.tidyverse.org/reference/labeller.html'>labeller</a></span><span class='op'>(</span>n_points <span class='op'>=</span> <span class='op'>~</span><span class='fu'><a href='https://rdrr.io/r/base/paste.html'>paste0</a></span><span class='op'>(</span><span class='fu'><a href='https://rdrr.io/r/base/integer.html'>as.integer</a></span><span class='op'>(</span><span class='va'>.x</span><span class='op'>)</span><span class='op'>/</span><span class='fl'>1e3</span>, <span class='st'>"K points"</span><span class='op'>)</span>,
-                                                  n_poly <span class='op'>=</span> <span class='op'>~</span><span class='fu'><a href='https://rdrr.io/r/base/paste.html'>paste0</a></span><span class='op'>(</span><span class='va'>.x</span>, <span class='st'>" polygons"</span><span class='op'>)</span><span class='op'>)</span><span class='op'>)</span><span class='op'>+</span>
+  <span class='fu'><a href='https://ggplot2.tidyverse.org/reference/facet_grid.html'>facet_grid</a></span><span class='op'>(</span><span class='va'>n_poly</span><span class='op'>~</span><span class='va'>n_points</span>, 
+             labeller <span class='op'>=</span> <span class='fu'><a href='https://ggplot2.tidyverse.org/reference/labeller.html'>labeller</a></span><span class='op'>(</span>n_points <span class='op'>=</span> <span class='op'>~</span><span class='fu'><a href='https://rdrr.io/r/base/paste.html'>paste0</a></span><span class='op'>(</span><span class='fu'><a href='https://rdrr.io/r/base/integer.html'>as.integer</a></span><span class='op'>(</span><span class='va'>.x</span><span class='op'>)</span><span class='op'>/</span><span class='fl'>1e3</span>, <span class='st'>"K points"</span><span class='op'>)</span>,
+                                 n_poly <span class='op'>=</span> <span class='op'>~</span><span class='fu'><a href='https://rdrr.io/r/base/paste.html'>paste0</a></span><span class='op'>(</span><span class='va'>.x</span>, <span class='st'>" polygons"</span><span class='op'>)</span><span class='op'>)</span><span class='op'>)</span><span class='op'>+</span>
   <span class='fu'><a href='https://ggplot2.tidyverse.org/reference/ggtheme.html'>theme_light</a></span><span class='op'>(</span><span class='op'>)</span> <span class='op'>+</span>
-  <span class='fu'><a href='https://ggplot2.tidyverse.org/reference/theme.html'>theme</a></span><span class='op'>(</span>legend.position <span class='op'>=</span> <span class='st'>"none"</span>, axis.ticks.x.top <span class='op'>=</span> <span class='fu'><a href='https://ggplot2.tidyverse.org/reference/element.html'>element_blank</a></span><span class='op'>(</span><span class='op'>)</span>, text <span class='op'>=</span> <span class='fu'><a href='https://ggplot2.tidyverse.org/reference/element.html'>element_text</a></span><span class='op'>(</span>size <span class='op'>=</span> <span class='fl'>9</span><span class='op'>)</span><span class='op'>)</span>
+  <span class='fu'><a href='https://ggplot2.tidyverse.org/reference/theme.html'>theme</a></span><span class='op'>(</span>legend.position <span class='op'>=</span> <span class='st'>"none"</span>, 
+        axis.ticks.x.top <span class='op'>=</span> <span class='fu'><a href='https://ggplot2.tidyverse.org/reference/element.html'>element_blank</a></span><span class='op'>(</span><span class='op'>)</span>, 
+        text <span class='op'>=</span> <span class='fu'><a href='https://ggplot2.tidyverse.org/reference/element.html'>element_text</a></span><span class='op'>(</span>size <span class='op'>=</span> <span class='fl'>9</span><span class='op'>)</span><span class='op'>)</span>
 </code></pre>
 </div>
 </details>
-<p><img src="benchmarking_binary_predicates_files/figure-html5/unnamed-chunk-11-1.png" width="624" /></p>
+<p><img src="benchmarking_binary_predicates_files/figure-html5/unnamed-chunk-14-1.png" width="624" /></p>
 </div>
-<p>This test shows something interesting: While <code>st_intersects</code> and <code>st_contains</code> are fast with a single polygon, they are inferior to <code>st_covered_by</code> and <code>st_within</code> for larger numbers of polygons. This effect is more prominent as the number of <em>points</em> grows as well.</p>
-<p><strong>So the take home message for me is to use <code>st_intersects</code> or <code>st_contains</code> when I have a small number of polygons and <code>st_covered_by</code> when the number of polygons increases.</strong></p>
+<p>This test shows something interesting: While <code>st_contains</code> and <code>st_intersects</code> are fast with a single polygon, they don’t scale well with lager number of polygons. This effect is especially prominent when the number of points is large (~500K).</p>
+<p>My take home message from this whole exercise: If you want to subset points based on whether they lie in specific polygons or not, use <code>st_intersects</code> or <code>st_contains</code> when the number of polygons is small. Use <code>st_covered_by</code> or <code>st_within</code> when the number of polygons is large. If it’s important what happens to points lying on the edge, remember that only <code>st_intersects</code> and <code>st_covered_by</code> will include them.</p>
 <div class="sourceCode" id="cb1"><pre class="sourceCode r distill-force-highlighting-css"><code class="sourceCode r"></code></pre></div>
 <section class="footnotes" role="doc-endnotes">
 <hr />
@@ -2713,7 +2747,7 @@ show code for: Visualizing results
 <div class="appendix-bottom">
   <h3 id="citation">Citation</h3>
   <p>For attribution, please cite this work as</p>
-  <pre class="citation-appendix short">Ratnaweera (2021, Sept. 16). To talk of many things: Benchmarking binary predicates. Retrieved from https://nils.ratnaweera.net/posts/2021-09-11-benchmarking_binary_predicates/</pre>
+  <pre class="citation-appendix short">Ratnaweera (2021, Sept. 17). To talk of many things: Benchmarking binary predicates. Retrieved from https://nils.ratnaweera.net/posts/2021-09-11-benchmarking_binary_predicates/</pre>
   <p>BibTeX citation</p>
   <pre class="citation-appendix long">@misc{ratnaweera2021benchmarking,
   author = {Ratnaweera, Nils},
@@ -2727,8 +2761,8 @@ show code for: Visualizing results
 <!--radix_placeholder_navigation_after_body--><html><body>
 <div class="distill-site-nav distill-site-footer">
 <blockquote>
-The time has come,' the Walrus said, 
-To talk of many things 
+"The time has come," the Walrus said, 
+"To talk of many things.."
 <cite> - From The Walrus and the Carpenter by Lewis Carroll </cite>
 </blockquote>
 </div>

diff --git a/docs/posts.html b/docs/posts.html
@@ -2491,7 +2491,7 @@ function init_posts_list() {
 <a href="posts/2021-09-11-benchmarking_binary_predicates/" class="post-preview">
 <script class="post-metadata" type="text/json">{"categories":["R","geodata"]}</script>
 <div class="metadata">
-<div class="publishedDate">Sept. 15, 2021</div>
+<div class="publishedDate">Sept. 16, 2021</div>
 <div class="dt-authors">
 <div class="dt-author">Nils Ratnaweera</div>
 </div>
